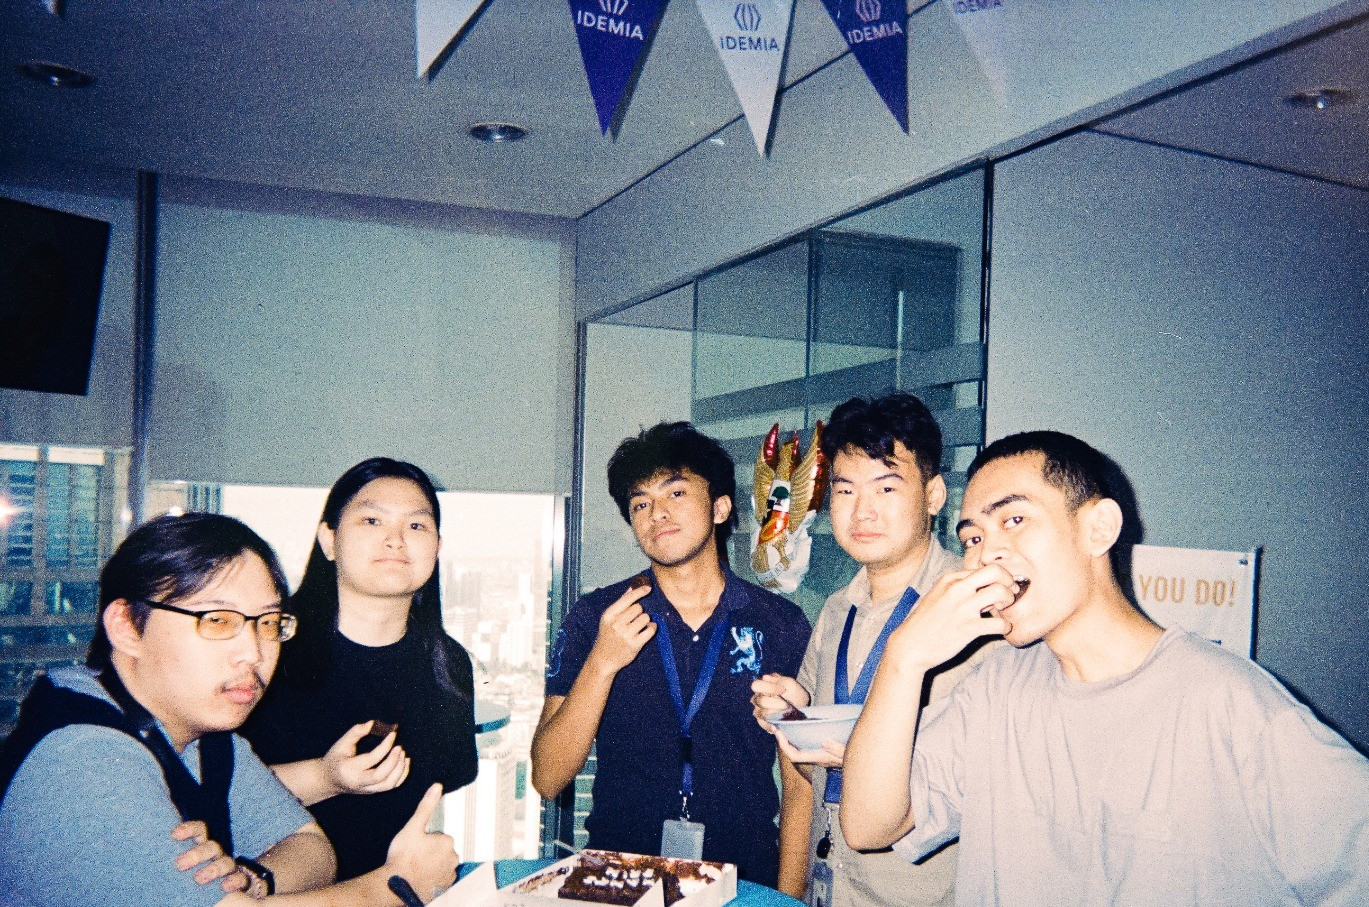
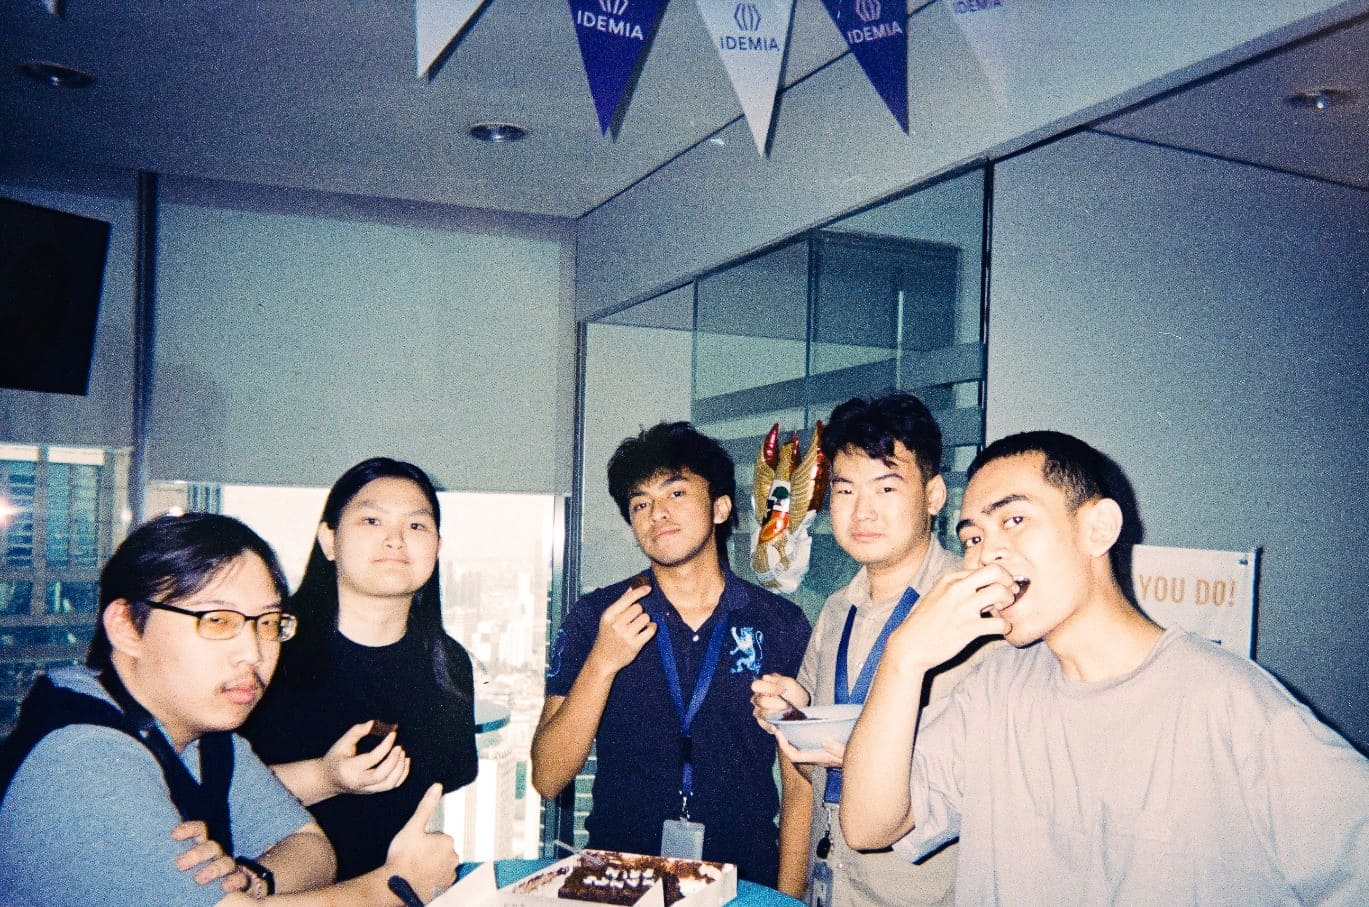
Images size optimization

diff --git a/app/data/snapshot_gallery.ts b/app/data/snapshot_gallery.ts
@@ -4,13 +4,13 @@ export type Snapshot = {
 };
 
 export const GALLERY: Snapshot[] = [
-  { src: "/gallery/photo_3.jpg", alt: "Snapshot 3" },
-  { src: "/gallery/photo_4.jpg", alt: "Snapshot 4" },
-  { src: "/gallery/photo_2.jpg", alt: "Snapshot 2" },
-  { src: "/gallery/photo_7.jpg", alt: "Snapshot 7" },
-  { src: "/gallery/photo_6.jpg", alt: "Snapshot 6" },
-  { src: "/gallery/photo_5.jpg", alt: "Snapshot 5" },
-  { src: "/gallery/photo_8.jpg", alt: "Snapshot 8" },
-  { src: "/gallery/photo_9.jpg", alt: "Snapshot 9" },
-  { src: "/gallery/photo_10.jpg", alt: "Snapshot 10" },
+  { src: "/gallery/photo-1.jpg", alt: "Snapshot 1" },
+  { src: "/gallery/photo-2.jpg", alt: "Snapshot 2" },
+  { src: "/gallery/photo-3.jpg", alt: "Snapshot 3" },
+  { src: "/gallery/photo-4.jpg", alt: "Snapshot 4" },
+  { src: "/gallery/photo-5.jpg", alt: "Snapshot 5" },
+  { src: "/gallery/photo-6.jpg", alt: "Snapshot 6" },
+  { src: "/gallery/photo-7.jpg", alt: "Snapshot 7" },
+  { src: "/gallery/photo-8.jpg", alt: "Snapshot 8" },
+  { src: "/gallery/photo-9.jpg", alt: "Snapshot 9" },
 ];
